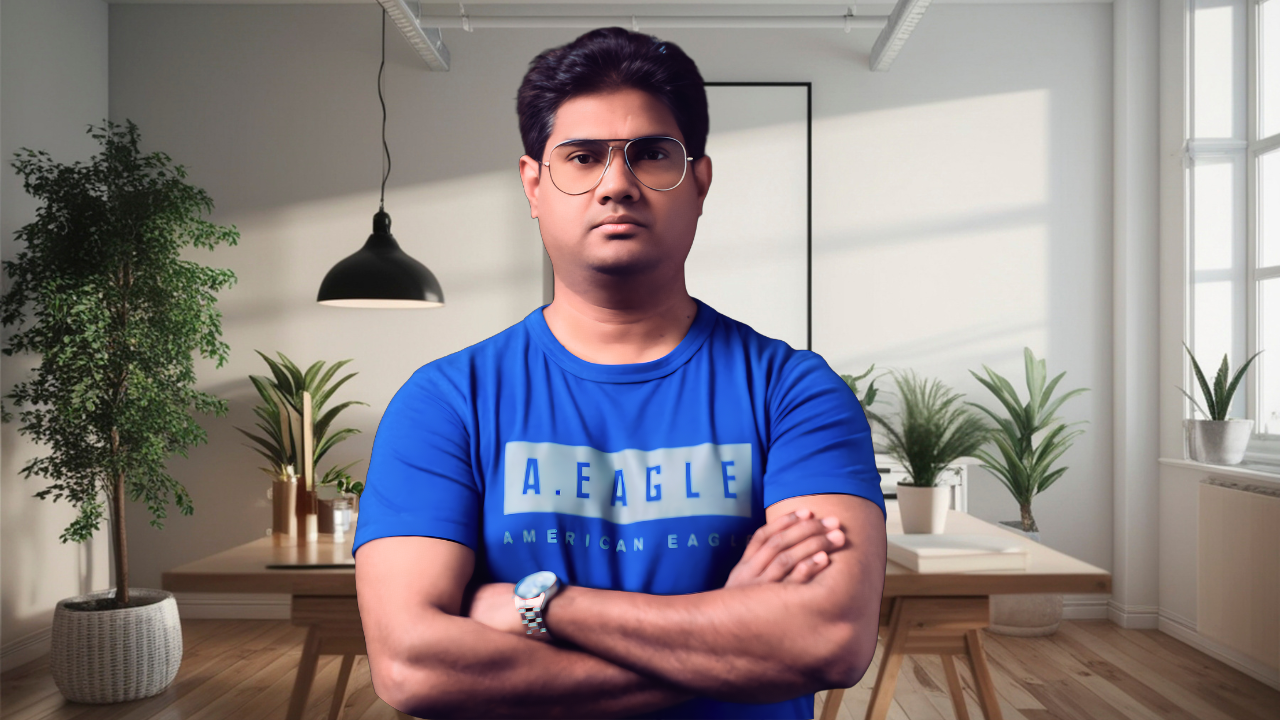
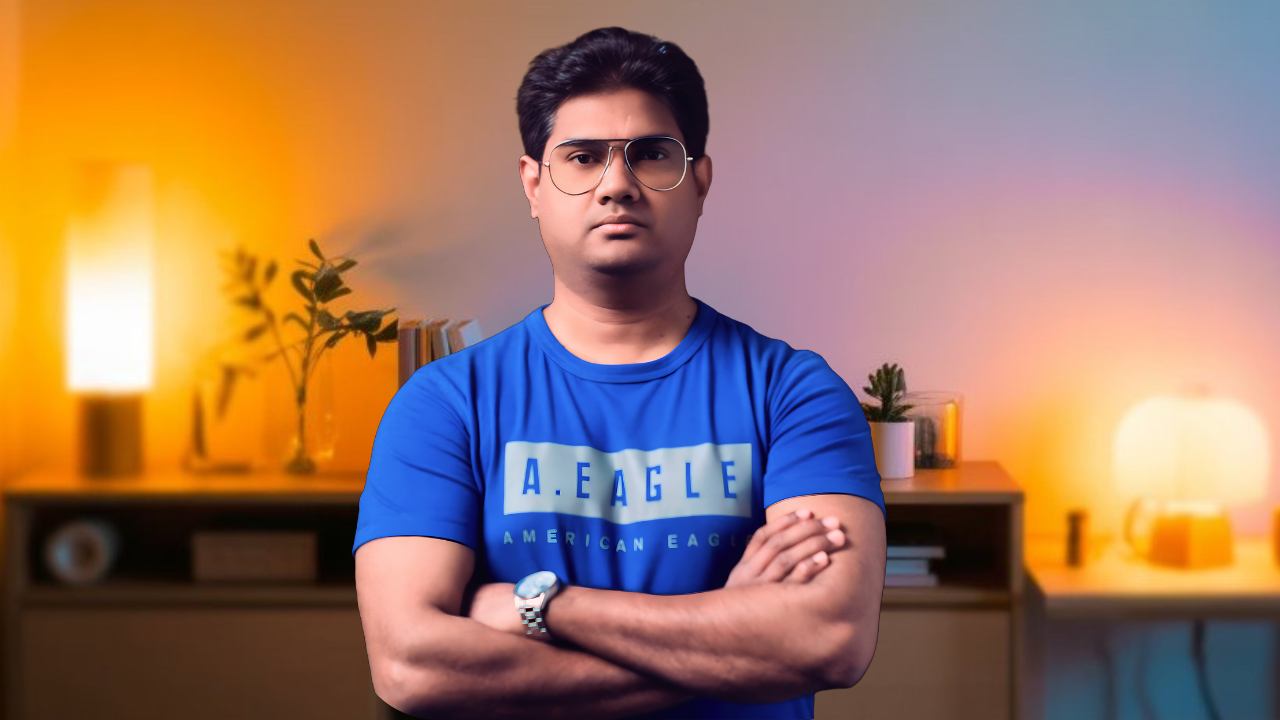
image cahnge

diff --git a/index.html b/index.html
@@ -66,7 +66,7 @@
           <div class="m-hero__inner">
             <!-- ----------------- course outline start pata nahi q  -------------------- -->
               <div class="youtube-placeholder" data-video="X54XKLhYkQA">
-                  <img src="https://img.youtube.com/vi/X54XKLhYkQA/maxresdefault.jpg" alt="Course Outline">
+                  <img src="img/heroimg.png" alt="Course Outline">
                   <div class="play-button">▶</div>
               </div>
 
@@ -159,7 +159,7 @@
              <img src="img/logo white.png" alt="logo ai web crafts" style="width: 28px; margin-right: 4px;">
           </a>
           <a href="index.html" class="footerLogoAnchro">
-            <span class="m-footer__name">AI Web Crafts</span>
+            <span class="m-footer__name">AI Web Crafimgts</span>
           </a>
         </div>
         <p class="m-footer__legal">© 2026 AI Web Crafts. All rights reserved.</p>
@@ -197,7 +197,7 @@
           </div>
 <div class="d-hero__media">
     <div class="youtube-placeholder" data-video="X54XKLhYkQA">
-        <img src="https://img.youtube.com/vi/X54XKLhYkQA/maxresdefault.jpg" alt="Course Outline">
+        <img src="img/heroimg.png" alt="Course Outline">
         <div class="play-button">▶</div>
     </div>
     <div class="d-hero__gradient" aria-hidden="true"></div>
